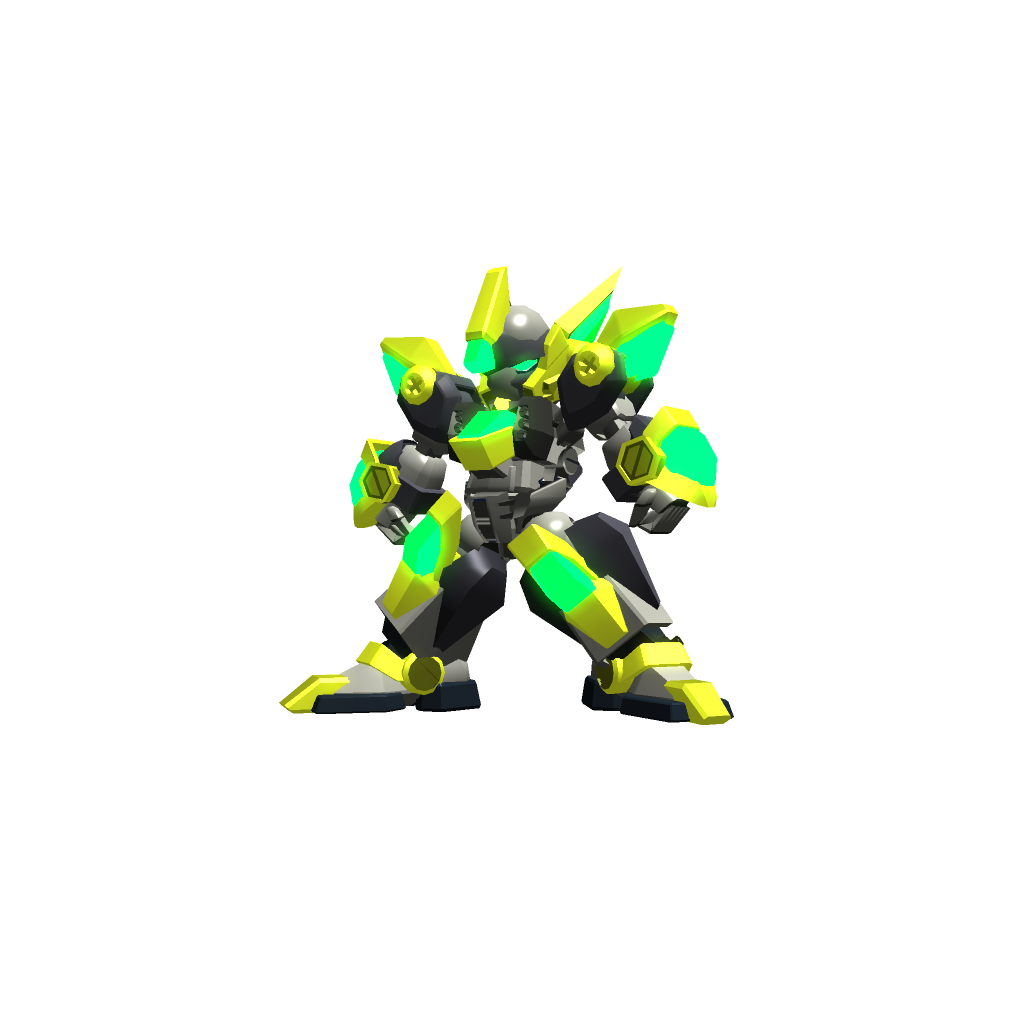
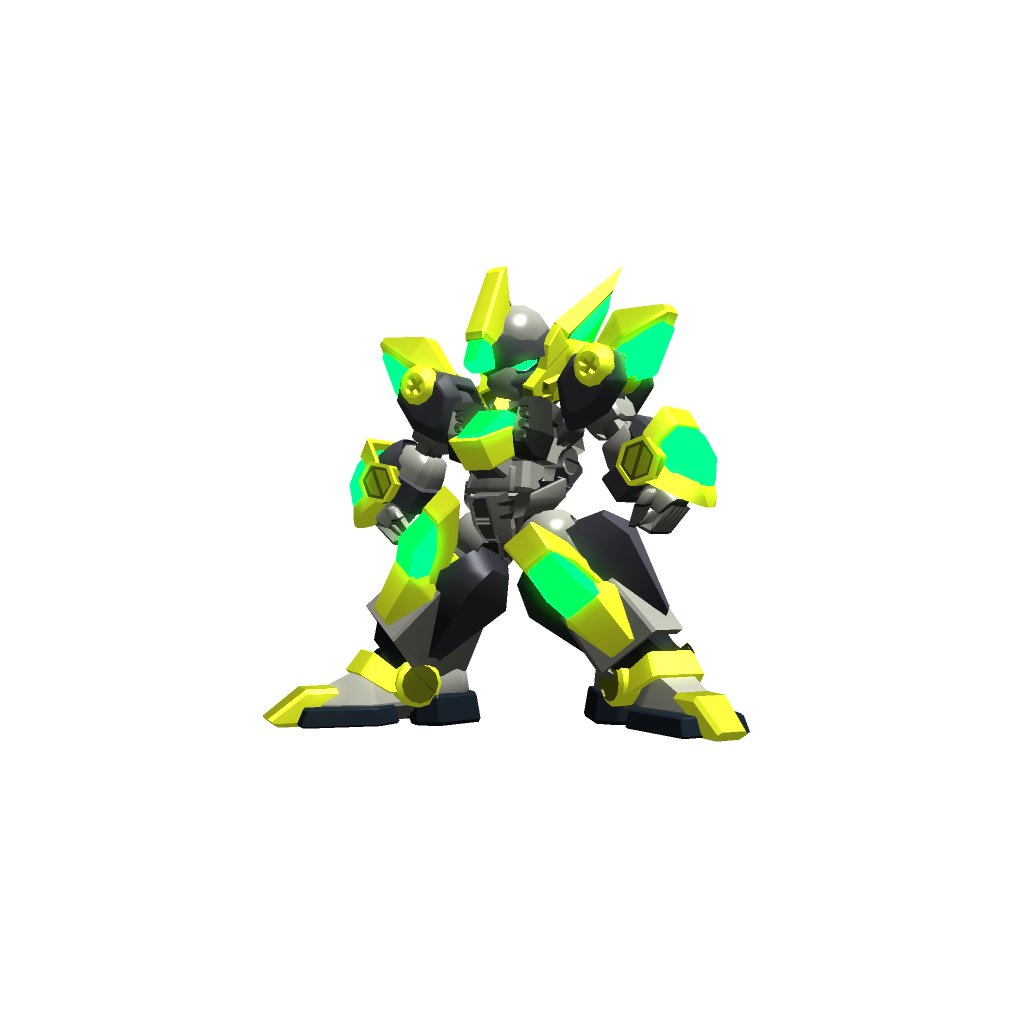
足をボリュームアップ

Changed region(s): [[0.25, 0.4688, 0.75, 0.75]]

diff --git a/src/js/game-object/armdozer/genesis-braver/mesh/position.js b/src/js/game-object/armdozer/genesis-braver/mesh/position.js
@@ -1,4 +1,4 @@
 // @flow
 
 /** メッシュ基準Y座標 */
-export const MESH_Y = 160;
+export const MESH_Y = 170;
